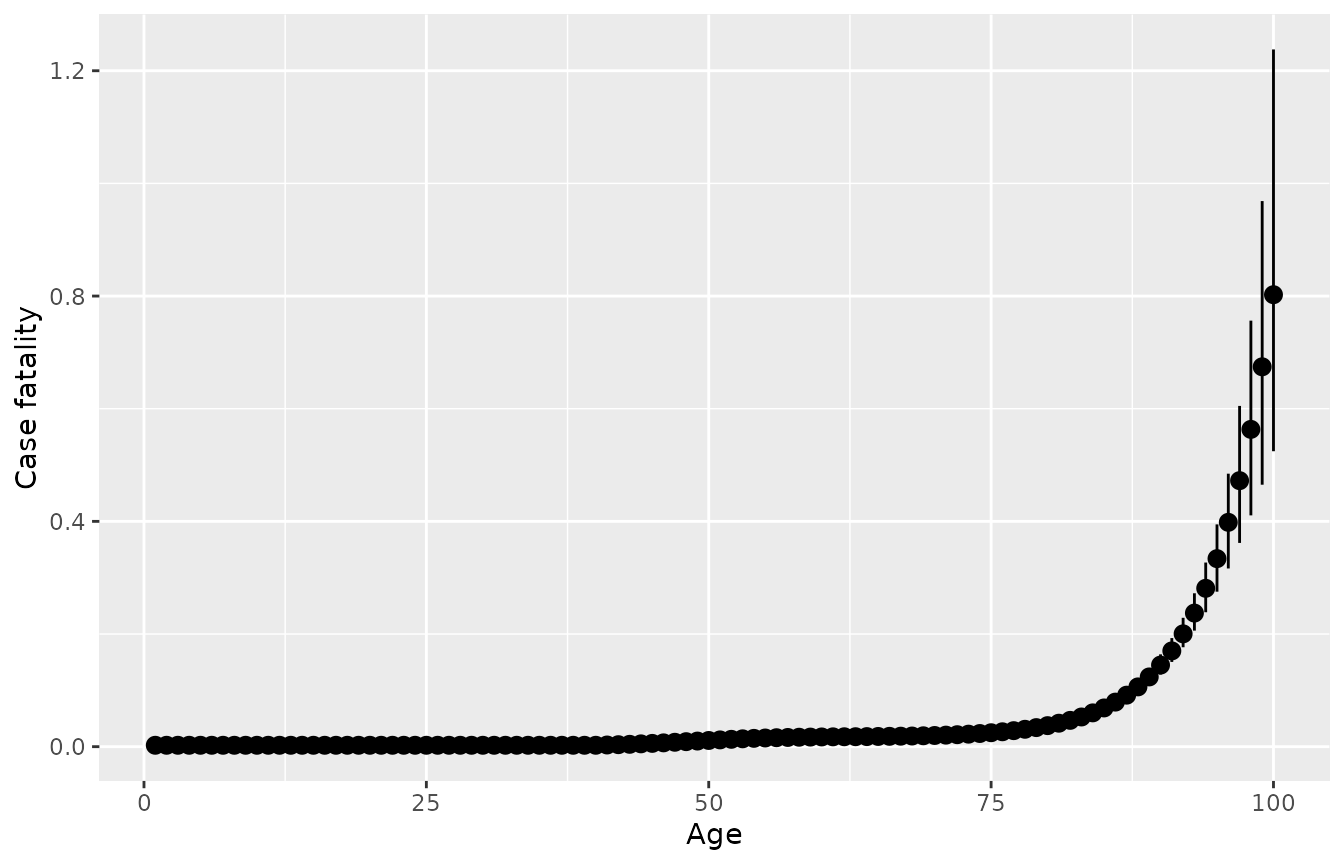
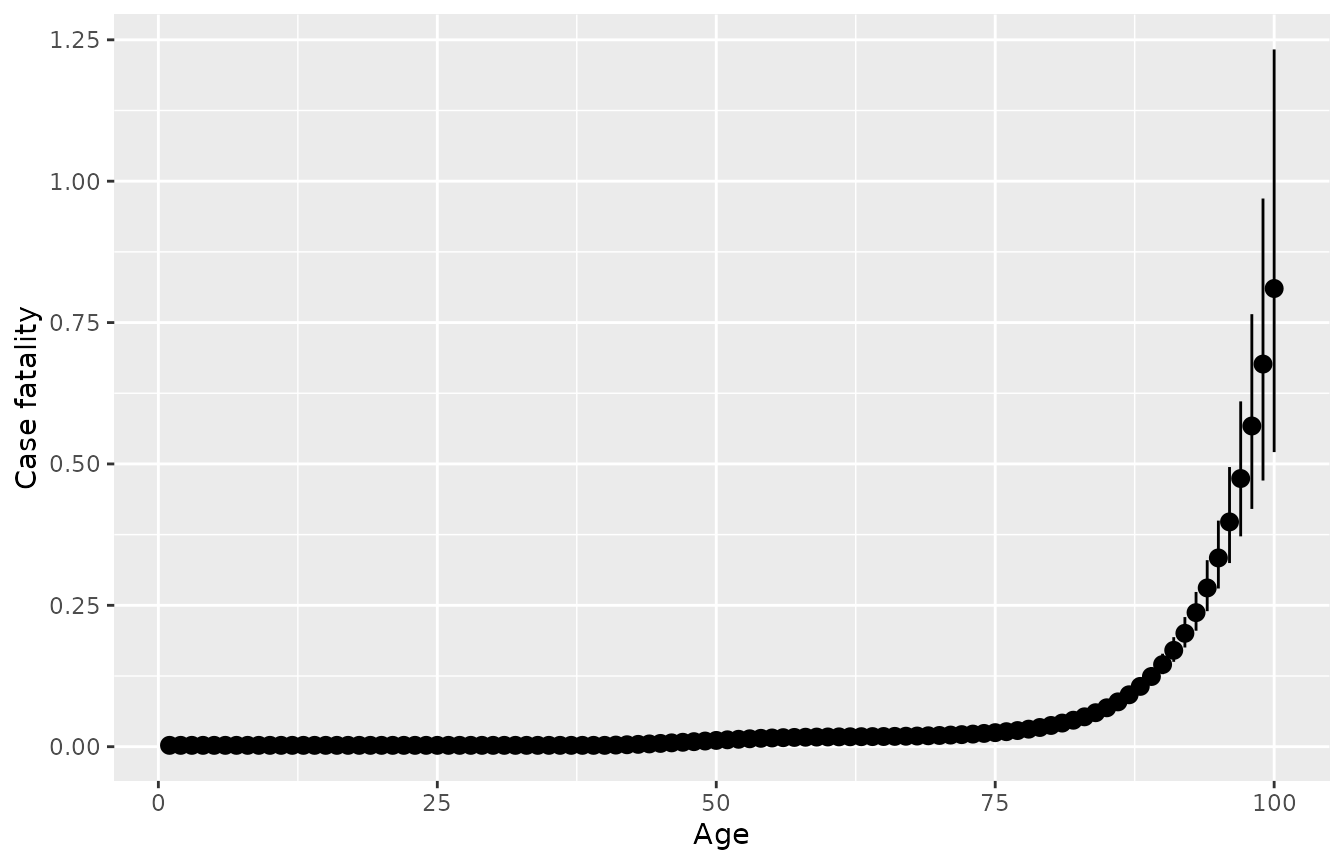
Built site for disbayes: 0.1@c7999e2

diff --git a/articles/disbayes.html b/articles/disbayes.html
@@ -339,12 +339,12 @@
   <span class="fu"><a href="https://dplyr.tidyverse.org/reference/filter.html">filter</a></span><span class="op">(</span><span class="va">var</span><span class="op">==</span><span class="st">"cf"</span>, <span class="fu"><a href="https://dplyr.tidyverse.org/reference/between.html">between</a></span><span class="op">(</span><span class="va">age</span>,<span class="fl">60</span>,<span class="fl">65</span><span class="op">)</span><span class="op">)</span> <span class="op">%&gt;%</span>
   <span class="fu"><a href="https://dplyr.tidyverse.org/reference/select.html">select</a></span><span class="op">(</span><span class="va">age</span>, <span class="va">`25%`</span>, <span class="va">`50%`</span>, <span class="va">`75%`</span><span class="op">)</span></code></pre></div>
 <pre><code>##   age        25%        50%        75%
-## 1  60 0.01599383 0.01727211 0.01870761
-## 2  61 0.01618446 0.01746945 0.01878844
-## 3  62 0.01640314 0.01759814 0.01890431
-## 4  63 0.01661800 0.01769531 0.01902538
-## 5  64 0.01682583 0.01789488 0.01913351
-## 6  65 0.01703279 0.01814198 0.01923044</code></pre>
+## 1  60 0.01602696 0.01721721 0.01859186
+## 2  61 0.01619138 0.01737701 0.01866103
+## 3  62 0.01631291 0.01754700 0.01873964
+## 4  63 0.01644726 0.01771778 0.01876825
+## 5  64 0.01663418 0.01787475 0.01894261
+## 6  65 0.01683810 0.01801723 0.01912702</code></pre>
 <p>The default <code>plot</code> method for objects returned by <code>disbayes</code> plots the posterior summaries for case fatality, allowing a quick check of the model results. Or do <code><a href="https://rdrr.io/r/graphics/plot.default.html">plot(..., variable="inc")</a></code> for incidence. The function returns a <code>ggplot2</code> object that can be modified with <code>ggplot2</code> functions, e.g. to add axis labels.</p>
 <div class="sourceCode" id="cb17"><pre class="downlit sourceCode r">
 <code class="sourceCode R"><span class="kw"><a href="https://rdrr.io/r/base/library.html">library</a></span><span class="op">(</span><span class="va"><a href="https://ggplot2.tidyverse.org">ggplot2</a></span><span class="op">)</span>
